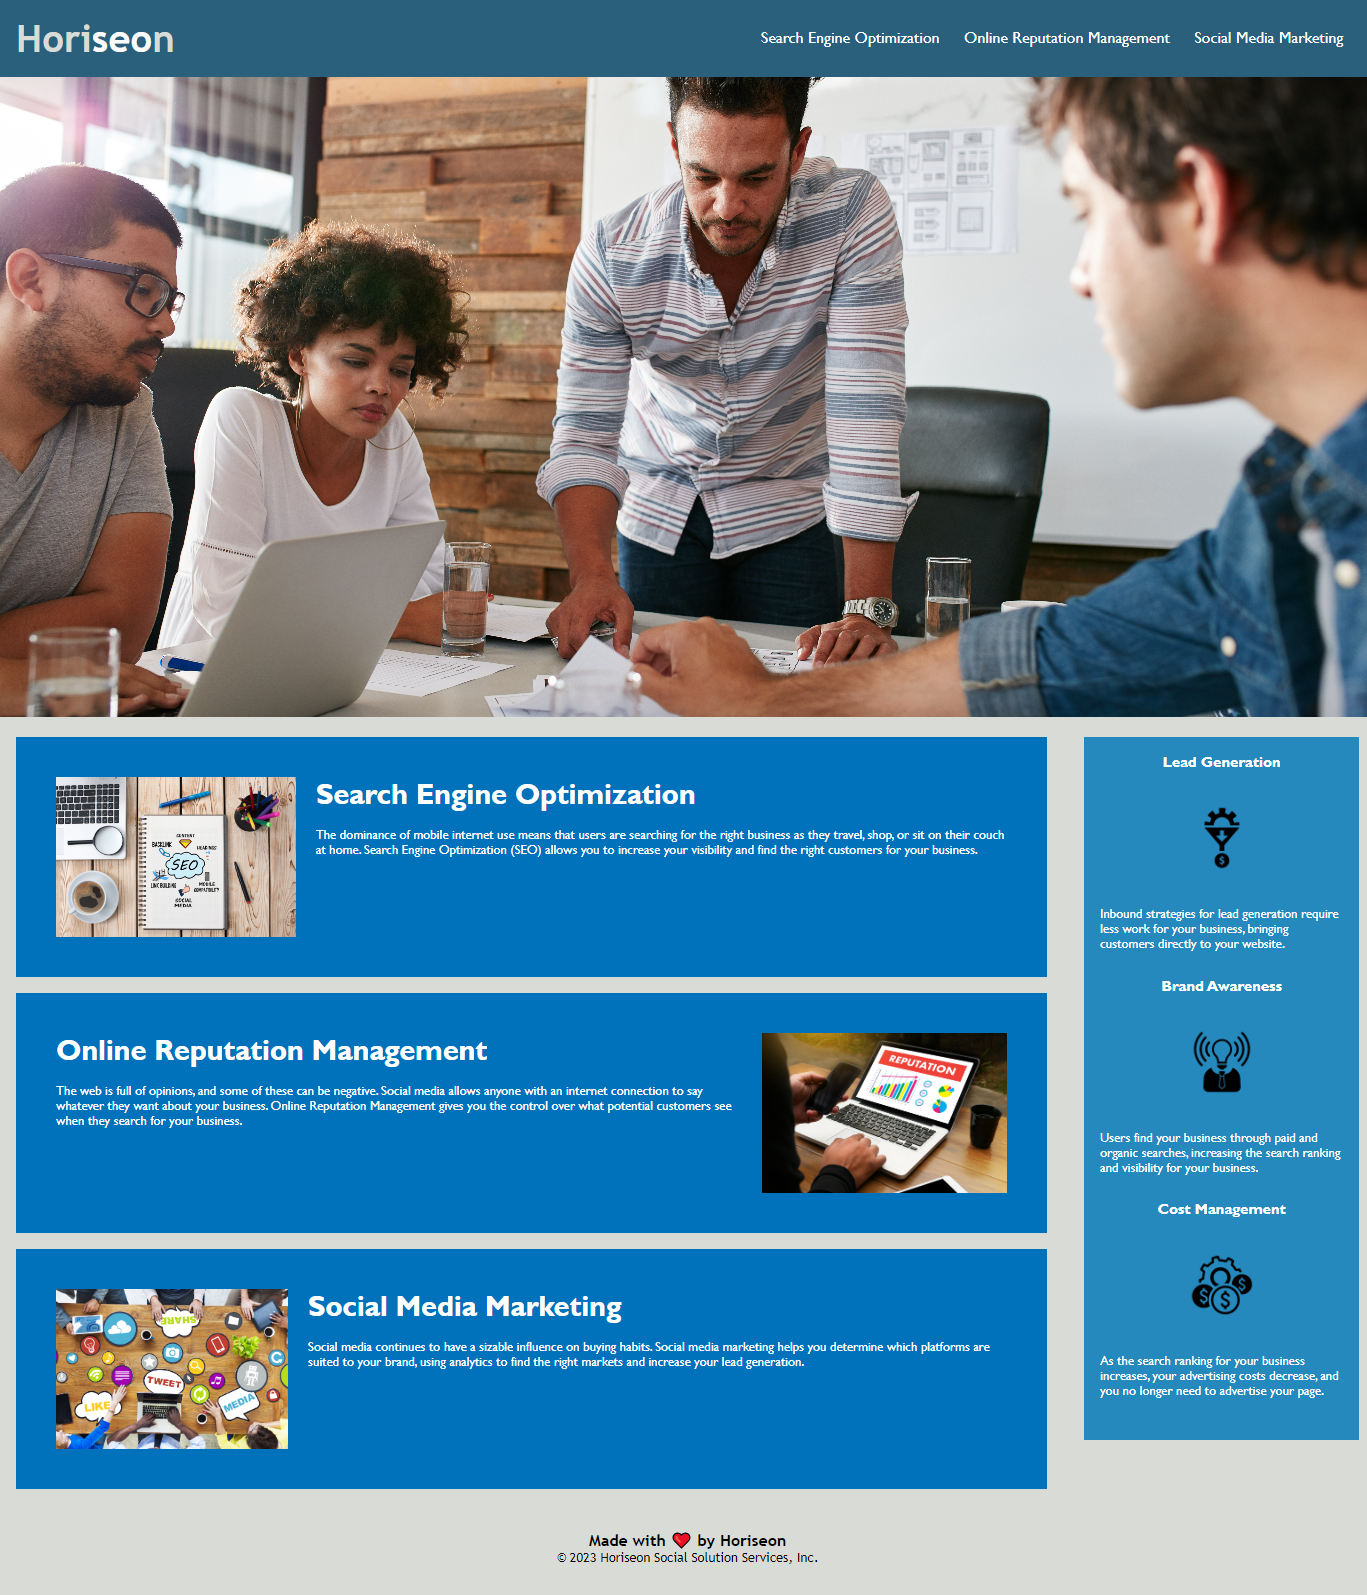
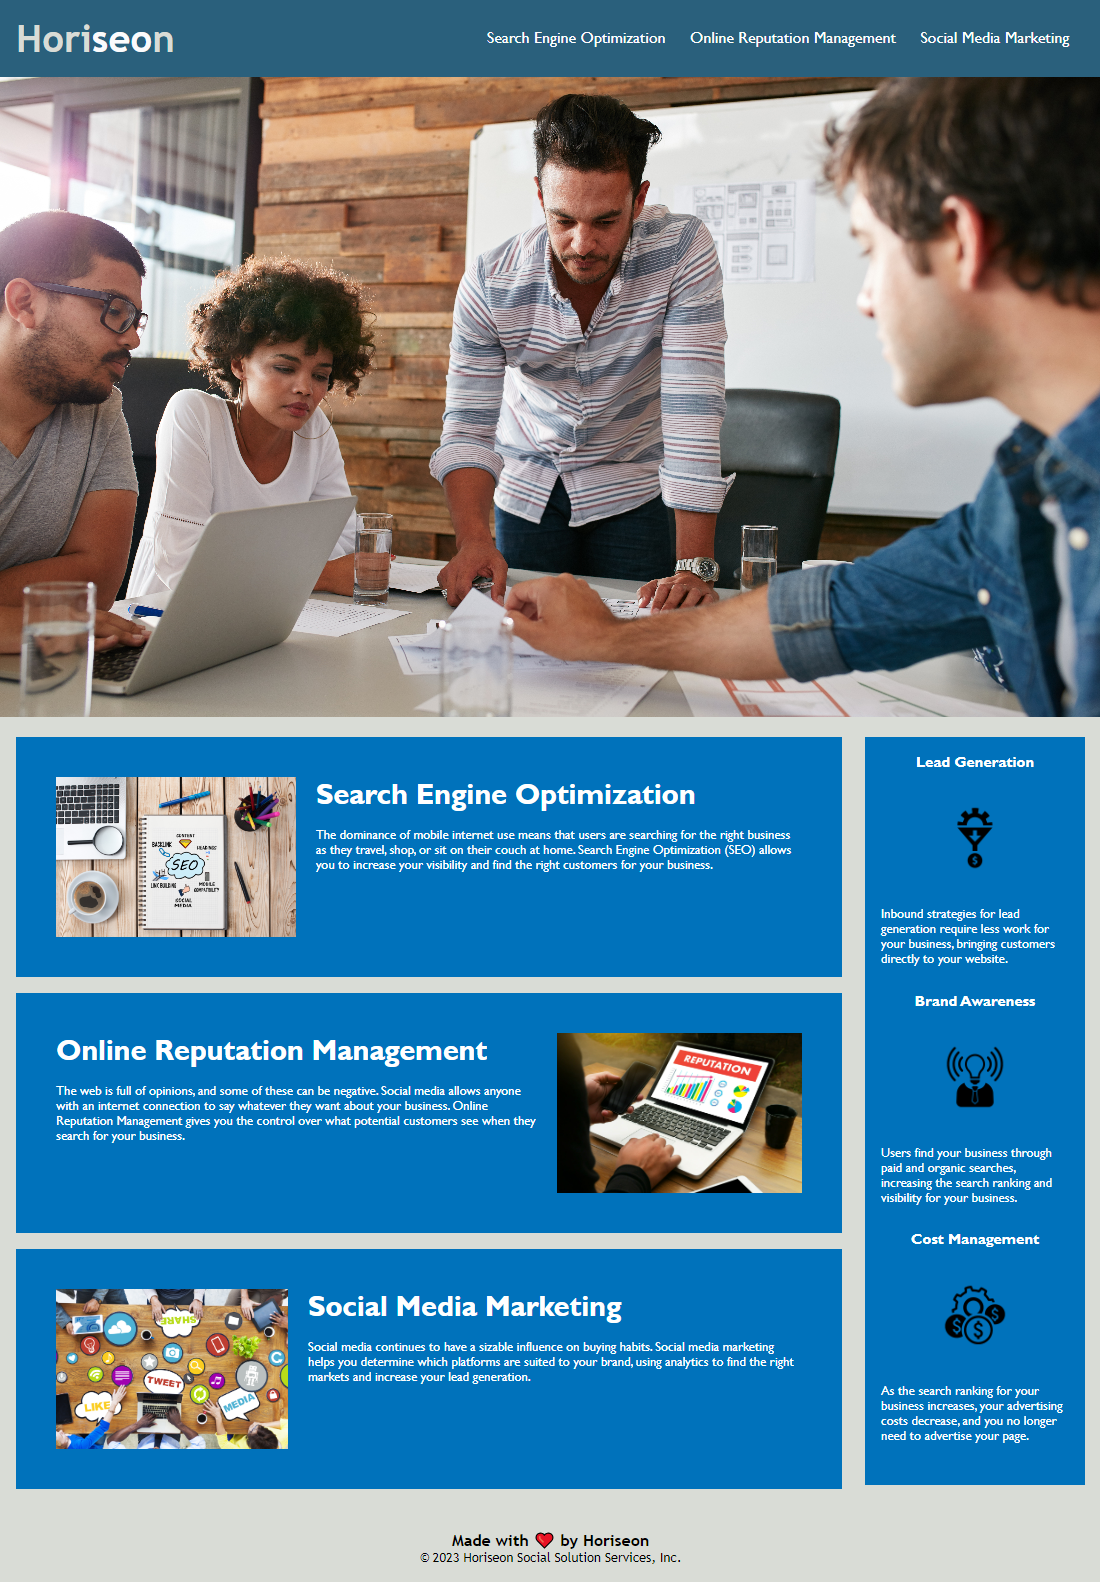
changed colors to match, updated readme and web screenshot

diff --git a/assets/css/style.css b/assets/css/style.css
@@ -87,7 +87,8 @@ p {
     width: 20%;
     height: 100%;
     font-family: 'Gill Sans', 'Gill Sans MT', Calibri, 'Trebuchet MS', sans-serif;
-    background-color: #2589bd;
+    /* background-color: #2589bd; */
+    background-color: #0072bb;
 }
 
 .benefit {

diff --git a/README.md b/README.md
@@ -5,6 +5,7 @@
 * Changed some of the generic tags to tags that are more closely related to the element
 * Fixed broken link for Search Engine Optimization
 * Changed the title to something more descriptive
+* Update background color of "benefit" section to match background color of cards
 * !["A white capital H with Horiseon blue in background"](./assets/images/image-1.png) Added favicon
 * Combined css classes that used the same values
 
